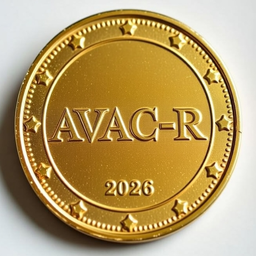
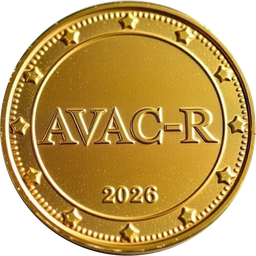
Metaverse: new token artwork and GVR Access coin
Replace LAPA, SET, PTR, PTF, PET, AVAC-R and GCC coin art with the
November 2026 designs, add GVRA (contract not yet published), rename
PTF to Petrofrio and GCC to GVR Carbon Credit, and add the Petrofrio
floor sign to the tower.

Claude-Session: https://claude.ai/code/session_01TnmDwjFDgvarLZ1Q8CvCJo

diff --git a/media/metaverso/index.html b/media/metaverso/index.html
@@ -137,7 +137,7 @@
   }
   .extra:empty { display: none; }
   .extra { margin-top: 14px; }
-  .coins { display: grid; grid-template-columns: repeat(5, 1fr); gap: 8px; }
+  .coins { display: grid; grid-template-columns: repeat(auto-fill, minmax(52px, 1fr)); gap: 8px; }
   .coin-btn {
     display: flex; flex-direction: column; align-items: center; gap: 4px;
     padding: 6px 2px; border-radius: 10px; border: 1px solid var(--line);
@@ -284,16 +284,17 @@ import { VRButton } from 'three/addons/webxr/VRButton.js';
 /* ------------------------------------------------------------------ dados */
 
 const TOKENS = [
-  { sym: 'LAPA',   name: 'Lapa Coin',            addr: '0xC12e14135b82305637e4F3c2FE4eaB7739854D10', note: 'Moeda do escritório virtual da Lapa.' },
-  { sym: 'SET',    name: 'Moeda Setfrio',        addr: '0x6779eF4dE8343Dd8DA82158410D3934F68603f65', note: 'Setfrio Ar Condicionado e Refrigeração.' },
-  { sym: 'PTR',    name: 'Moeda Petrorio',       addr: '0xB9dFF02ba6d2BE0a3A49382f983D87ddaAd804B4', note: 'Moeda Petrorio, emblema naval.' },
-  { sym: 'PTF',    name: 'Moeda Petrorio PTF',   addr: '0xD0Af1bD51ee0132858A172D41eC769e1e3Cf9c11', note: 'Moeda Petrorio, emblema de refrigeração.' },
+  { sym: 'LAPA',   name: 'Lapa Coin',            addr: '0xC12e14135b82305637e4F3c2FE4eaB7739854D10', note: 'Tokenizada pelo GVR. Na moeda: os Arcos, a Escadaria Selarón, o bonde e a roda de samba.' },
+  { sym: 'SET',    name: 'Moeda Setfrio',        addr: '0x6779eF4dE8343Dd8DA82158410D3934F68603f65', note: 'Setfrio Engenharia de Ar Condicionado.' },
+  { sym: 'PTR',    name: 'Moeda Petrorio',       addr: '0xB9dFF02ba6d2BE0a3A49382f983D87ddaAd804B4', note: 'Petrorio Comércio, Importação e Serviços: naval, industrial e offshore.' },
+  { sym: 'PTF',    name: 'Moeda Petrofrio',      addr: '0xD0Af1bD51ee0132858A172D41eC769e1e3Cf9c11', note: 'Petrofrio Refrigeração e Offshore.' },
   { sym: 'PET',    name: 'Pet Resgate',          addr: '0x544510c97944b0579B27c4a7FBB76412b1336601', note: 'Resgate e cuidado animal.' },
   { sym: 'HVAC-R', name: 'Moeda HVAC-R',         addr: '0x4c3d87d7faaf04e17c9de0afbce4687aa7793995', note: 'Setor HVAC-R Brasil.' },
   { sym: 'AVAC-R', name: 'AVAC-R 2026',          addr: '0x935CbCb59719dAC5DDc72c6d9e11b95f18834876', note: 'Aquecimento, ventilação, ar condicionado e refrigeração.' },
   { sym: 'AVAC',   name: 'AVAC-R Coin Inc.',     addr: '0x2fe3c7dd588a1258f032a776e33266aed46256f0', note: 'Emissão institucional AVAC-R.' },
-  { sym: 'GCC',    name: 'Green Cooling Credit', addr: '0x83Df478CB43c95dAab29259A6c308C157D62a2E7', note: 'Crédito de refrigeração verde.' },
+  { sym: 'GCC',    name: 'GVR Carbon Credit',    addr: '0x83Df478CB43c95dAab29259A6c308C157D62a2E7', note: 'Crédito de carbono do Grupo Vandic Rocha.' },
   { sym: 'VGI',    name: 'Vandic Global Index',  addr: '0xd78342A74D251891d9Daa6D709fC3bab5803c78A', note: 'Índice global do grupo.' },
+  { sym: 'GVRA',   name: 'GVR Access',           addr: null, note: 'Moeda de acesso do Grupo Vandic Rocha, emissão 2026.' },
 ];
 
 const PLACES = [
@@ -328,15 +329,15 @@ const PLACES = [
   {
     id: 'torre', name: 'Torre Vandic Rocha', dot: '#4C7FD0',
     eyebrow: 'Sede do Grupo Vandic Rocha',
-    text: 'A Setfrio (climatização VRF/VRV, manutenção e PMOC) e a Petrorio ocupam os andares. Na cobertura fica o escritório virtual da Lapa Coin. Pise no círculo dourado da entrada para subir.',
-    facts: [['Andares', '14'], ['Empresas', 'Setfrio · Petrorio'], ['Cobertura', 'Lapa Coin']],
+    text: 'A Setfrio (climatização VRF/VRV, manutenção e PMOC), a Petrorio e a Petrofrio ocupam os andares. Na cobertura fica o escritório virtual da Lapa Coin. Pise no círculo dourado da entrada para subir.',
+    facts: [['Andares', '14'], ['Empresas', '3'], ['Cobertura', 'Lapa Coin']],
     center: [60, -40], radius: 22, spawn: [60, 0, -20], face: [0, -1],
   },
   {
     id: 'escritorio', name: 'Escritório Lapa Coin', dot: '#F2C230',
     eyebrow: 'Cobertura · BNB Smart Chain',
-    text: 'As dez moedas do grupo giram em volta do núcleo. Toque em uma moeda para ver o contrato. O círculo dourado ao lado leva de volta à rua.',
-    facts: [['Moedas', '10'], ['Rede', 'BSC'], ['Padrão', 'BEP-20']],
+    text: 'As onze moedas do grupo giram em volta do núcleo. Toque em uma moeda para ver o contrato. O círculo dourado ao lado leva de volta à rua.',
+    facts: [['Moedas', '11'], ['Rede', 'BSC'], ['Padrão', 'BEP-20']],
     center: [60, -45], radius: 0, spawn: [60, 56, -40.5], face: [0, -1],
   },
 ];
@@ -1052,8 +1053,9 @@ const TOWER = { x: 60, z: -45, w: 20, h: 56 };
   const signs = [
     ['GRUPO VANDIC ROCHA', 52.5, '#F2C230', 2.6],
     ['LAPA COIN', 46, '#F4EFE4', 1.8],
-    ['PETRORIO', 30, '#F4EFE4', 1.8],
-    ['SETFRIO', 14, '#7fb2ff', 1.8],
+    ['PETRORIO', 36, '#F2C230', 1.8],
+    ['PETROFRIO', 24, '#9fd0ff', 1.8],
+    ['SETFRIO', 12, '#4fd08a', 1.8],
   ];
   for (const [txt, y, col, hgt] of signs) {
     const t = signTex(txt, { w: 1400, h: 180, fg: col, font: '800 120px "Bricolage Grotesque", sans-serif' });
@@ -1296,7 +1298,7 @@ function showPlace(p) {
 }
 
 function showToken(tk) {
-  $('cardEyebrow').textContent = 'Token · BNB Smart Chain · BEP-20';
+  $('cardEyebrow').textContent = tk.addr ? 'Token · BNB Smart Chain · BEP-20' : 'Token · contrato a publicar';
   $('cardTitle').textContent = `${tk.name} (${tk.sym})`;
   $('cardText').textContent = tk.note;
   fillFacts([]);
@@ -1306,10 +1308,13 @@ function showToken(tk) {
   const img = document.createElement('img'); img.src = `tokens/${tk.sym}.png`; img.alt = `Logo ${tk.sym}`;
   const meta = document.createElement('div');
   const lab = document.createElement('p'); lab.className = 'eyebrow'; lab.textContent = 'Contrato';
-  const addr = document.createElement('code'); addr.className = 'addr'; addr.textContent = tk.addr;
+  const addr = document.createElement('code'); addr.className = 'addr'; addr.textContent = tk.addr || 'Ainda não informado';
   meta.append(lab, addr);
   head.append(img, meta);
   const row = document.createElement('div'); row.className = 'actions';
+  const back = document.createElement('button'); back.type = 'button'; back.className = 'act'; back.textContent = 'Voltar';
+  back.addEventListener('click', () => showPlace(PLACES.find((q) => q.id === (currentPlace || 'escritorio'))));
+  if (!tk.addr) { row.append(back); extra.append(head, row); card.hidden = false; return; }
   const copy = document.createElement('button'); copy.type = 'button'; copy.className = 'act primary'; copy.textContent = 'Copiar contrato';
   copy.addEventListener('click', () => {
     navigator.clipboard.writeText(tk.addr).then(() => { copy.textContent = 'Copiado'; }, () => {
@@ -1321,8 +1326,6 @@ function showToken(tk) {
   });
   const scan = document.createElement('a'); scan.className = 'act'; scan.href = `https://bscscan.com/token/${tk.addr}`;
   scan.target = '_blank'; scan.rel = 'noopener'; scan.textContent = 'Ver no BscScan';
-  const back = document.createElement('button'); back.type = 'button'; back.className = 'act'; back.textContent = 'Voltar';
-  back.addEventListener('click', () => showPlace(PLACES.find((q) => q.id === (currentPlace || 'escritorio'))));
   row.append(copy, scan, back);
   extra.append(head, row);
   card.hidden = false;

diff --git a/media/metaverso/README.md b/media/metaverso/README.md
@@ -10,8 +10,8 @@ Experiência 3D no navegador com a Lapa e a Glória, no Rio de Janeiro, e a sede
 | Escadaria Selarón | Degraus e muretas de azulejo, com subida até Santa Teresa |
 | Passeio Público | Portão de 1783, Chafariz dos Jacarés, pirâmides de Mestre Valentim, palmeiras imperiais |
 | Feira da Glória | 16 barracas (hortifruti, flores, peixaria, pastel e caldo de cana…) |
-| Torre Vandic Rocha | Andares da Setfrio e da Petrorio, condensadoras VRF na cobertura |
-| Escritório Lapa Coin | Cobertura com as 10 moedas do grupo girando em volta do núcleo; ao tocar numa moeda aparece o contrato BEP-20 |
+| Torre Vandic Rocha | Andares da Setfrio, da Petrorio e da Petrofrio, condensadoras VRF na cobertura |
+| Escritório Lapa Coin | Cobertura com as 11 moedas do grupo girando em volta do núcleo; ao tocar numa moeda aparece o contrato BEP-20 |
 
 ## Tecnologia
 
@@ -37,19 +37,20 @@ No celular, use o joystick da esquerda e arraste a tela para olhar. O círculo d
 
 ## Tokens (BNB Smart Chain)
 
-Os logos em `tokens/` são cópias dos arquivos em `blockchains/smartchain/assets/<contrato>/logo.png`.
+Os logos em `tokens/` são a arte enviada em novembro de 2026 (256 × 256 px). HVAC-R, AVAC e VGI continuam com a arte de `blockchains/smartchain/assets/<contrato>/logo.png`.
 
 | Símbolo | Nome | Contrato |
 | --- | --- | --- |
-| LAPA | Lapa Coin | `0xC12e14135b82305637e4F3c2FE4eaB7739854D10` |
+| LAPA | Lapa Coin (tokenizada pelo GVR) | `0xC12e14135b82305637e4F3c2FE4eaB7739854D10` |
 | SET | Moeda Setfrio | `0x6779eF4dE8343Dd8DA82158410D3934F68603f65` |
 | PTR | Moeda Petrorio | `0xB9dFF02ba6d2BE0a3A49382f983D87ddaAd804B4` |
-| PTF | Moeda Petrorio PTF | `0xD0Af1bD51ee0132858A172D41eC769e1e3Cf9c11` |
+| PTF | Moeda Petrofrio | `0xD0Af1bD51ee0132858A172D41eC769e1e3Cf9c11` |
 | PET | Pet Resgate | `0x544510c97944b0579B27c4a7FBB76412b1336601` |
 | HVAC-R | Moeda HVAC-R | `0x4c3d87d7faaf04e17c9de0afbce4687aa7793995` |
 | AVAC-R | AVAC-R 2026 | `0x935CbCb59719dAC5DDc72c6d9e11b95f18834876` |
 | AVAC | AVAC-R Coin Inc. | `0x2fe3c7dd588a1258f032a776e33266aed46256f0` |
-| GCC | Green Cooling Credit | `0x83Df478CB43c95dAab29259A6c308C157D62a2E7` |
+| GCC | GVR Carbon Credit | `0x83Df478CB43c95dAab29259A6c308C157D62a2E7` |
 | VGI | Vandic Global Index | `0xd78342A74D251891d9Daa6D709fC3bab5803c78A` |
+| GVRA | GVR Access | ainda não informado |
 
 O contrato `0xB9dF…04B4` foi adicionado no commit "Add PET token logo", mas o logo mostra "PTR · Moeda Petrorio", então aqui ele aparece como PTR.
